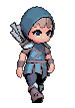
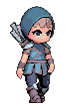
actualizacion de personaje, upgrade, arreglo de errores 02

diff --git a/juego python/main.py b/juego python/main.py
@@ -3,6 +3,7 @@ import pygame
 import constantes
 from personaje import Personaje
 
+
 #!--- inicializar ---
 pygame.init()
 #! --- display, mostramos la ventana ---
@@ -23,7 +24,7 @@ def escalar_img(image,scale):
 animacion = []
 for i in range(9):
     #Cambiamos el numero de imagen por i del For
-    img = pygame.image.load(f"juego python//assets//img///personajes//player_main//caminata0{i}.png") 
+    img = pygame.image.load(f"juego python//assets//img//personajes//player_main//caminata0{i}.png") 
     img = escalar_img(img, constantes.ESCALA_PJ)
     animacion.append(img)
 
@@ -32,8 +33,9 @@ for i in range(9):
 # #escala del tamaño del pj en %
 # player_image = escalar_img(player_image, constantes.ESCALA_PJ)
 
+
 #!Traemos la clase PJ y le asiganmos la ubicacion
-jugador = Personaje(250,350, animacion)
+jugador = Personaje(100,200, animacion)
 
 
 #variables de movimiento

diff --git a/juego python/constantes.py b/juego python/constantes.py
@@ -9,7 +9,13 @@ ALTO_VENTANA = 780
 ANCHO_PJ = 10
 ALTO_PJ = 10
 COLOR_PJ = (40,60,85) #?color azul marino(90,50,255)
-ESCALA_PJ = 0.4
+ESCALA_PJ = 2.5
+
+#! NPC
+ANCHO_NPC = 10
+ALTO_NPC = 10
+COLOR_NPC = (40,60,85) #?color azul marino(90,50,255)
+ESCALA_NPC = 0.8
 
 #! VELOCIDAD
 VELOCIDAD = 5   # pixeles/s
